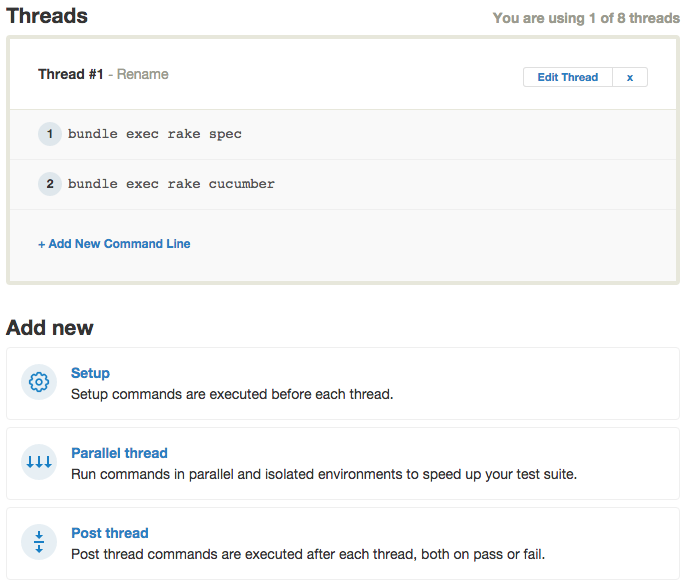
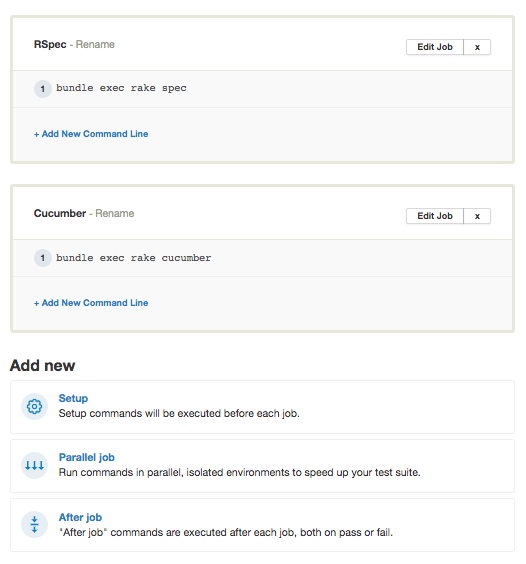
Replace build commands screenshots

diff --git a/source/docs/customizing-build-commands.md b/source/docs/customizing-build-commands.md
@@ -15,7 +15,7 @@ Typical use cases for custom build commands that we have seen so far are:
 
 Each build or deploy command is executed as a Linux shell command.
 
-To edit a project build commands, click on "settings" next to your project on the dashboard.
+To edit a project build commands, click on "Project settings" on the  project page.
 
 <img src="/docs/assets/img/custom-build-commands/cbc-project-settings-link.png" class="img-bordered-padding img-responsive">
 
@@ -28,14 +28,12 @@ You will see the commands editor page with your current build commands.
 If your plan allows multiple jobs, you can add a new job by clicking on
 "Parallel job" link.
 
-<img src="/docs/assets/img/custom-build-commands/parallel-thread.png" class="img-bordered-padding img-responsive">
+<img src="/docs/assets/img/custom-build-commands/parallel-job.png" class="img-bordered-padding img-responsive">
 
 A new job will show up, where you can add new commands.
 
 Alternatively, you can drag an existing command to the new job. The drag
 handler will show up when you move the mouse pointer over a command.
-
-<img src="/docs/assets/img/custom-build-commands/drag-command.png" class="img-bordered-padding img-responsive">
 
 ## Deleting a command
 
@@ -73,7 +71,7 @@ If you want to edit multiple commands at once or you want to paste few commands,
 click on the "Edit job" link. This will show text area where you can insert
 your commands.
 
-<img src="/docs/assets/img/custom-build-commands/edit-thread.png" class="img-bordered-padding img-responsive">
+<img src="/docs/assets/img/custom-build-commands/edit-job.png" class="img-bordered-padding img-responsive">
 
 ## Deleting a job
 
@@ -81,14 +79,14 @@ To delete a job, click "x" link in the top right corner of the tread. If the
 tread is not empty - you need to confirm that the job and all commands should
 be deleted.
 
-<img src="/docs/assets/img/custom-build-commands/delete-thread.png" class="img-bordered-padding img-responsive">
+<img src="/docs/assets/img/custom-build-commands/delete-job.png" class="img-bordered-padding img-responsive">
 
 ## Renaming a job
 
 Jobs can be named. The name of a jobs will be displayed on the build page.
 To name a job, click on the "Rename" link.
 
-<img src="/docs/assets/img/custom-build-commands/rename-thread.png" class="img-bordered-padding img-responsive">
+<img src="/docs/assets/img/custom-build-commands/rename-job.png" class="img-bordered-padding img-responsive">
 
 Commands editor allows you to add [after
 job commands](/docs/using-post-thread-commands.html) that execute after each
